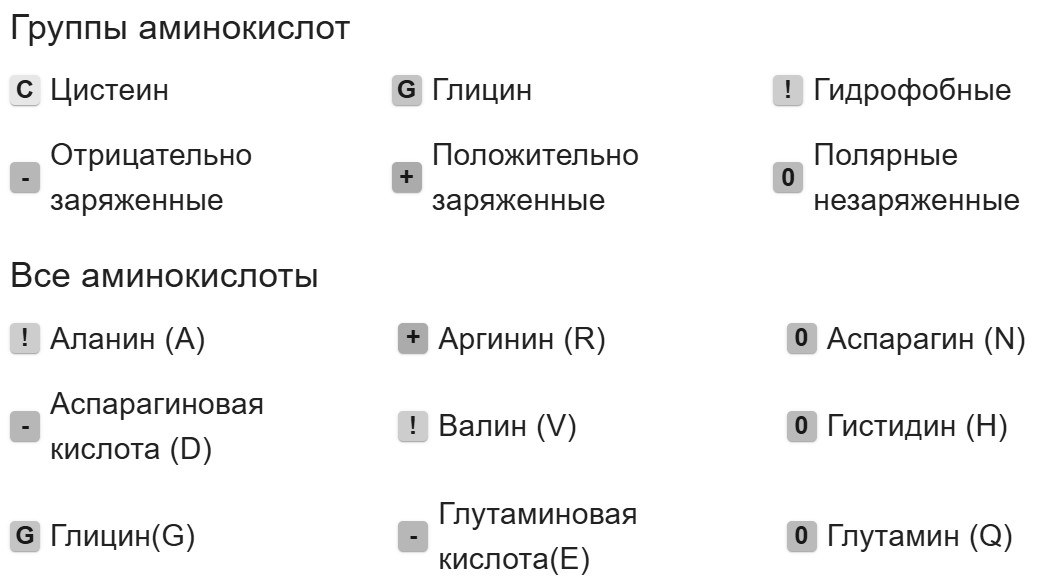
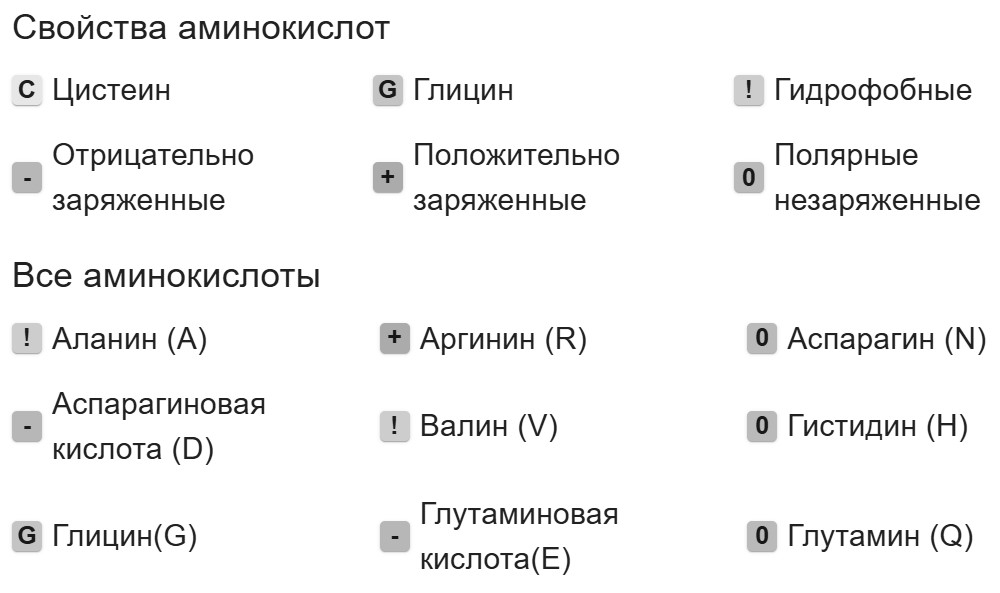
corrected text

diff --git a/src/components/Legend/LegendPopover/LegendPopover.tsx b/src/components/Legend/LegendPopover/LegendPopover.tsx
@@ -51,7 +51,7 @@ export const LegendPopover: React.FC<LegendPopoverProps> = ({
             id="amino-groups-title"
             gutterBottom
           >
-            Группы аминокислот
+            Свойства аминокислот
           </Typography>
 
           <IconButton onClick={onClose} size="small" aria-label="Закрыть">

diff --git a/README.md b/README.md
@@ -1,17 +1,17 @@
 # Инструмент для визуализации выравнивания аминокислотных последовательностей
 
-* [Демонстрация](#демонстрация)
-* [О проекте](#о-проекте)
-* [Требования к проекту](#требования-к-проекту)
-* [Реализация](#реализация)
-  + [Позиционирование последовательностей](#позиционирование-последовательностей)
-  + [Окрашивание фона](#окрашивание-фона)
-  + [Оптимизация](#оптимизация)
-  + [Доступность (accessibility)](#доступность-accessibility)
-  + [Проблемы подхода](#проблемы-подхода)
-* [Технологии](#технологии)
-  + [Стек](#стек)
-  + [Запуск проекта](#запуск-проекта)
+- [Демонстрация](#демонстрация)
+- [О проекте](#о-проекте)
+- [Требования к проекту](#требования-к-проекту)
+- [Реализация](#реализация)
+  - [Позиционирование последовательностей](#позиционирование-последовательностей)
+  - [Окрашивание фона](#окрашивание-фона)
+  - [Оптимизация](#оптимизация)
+  - [Доступность (accessibility)](#доступность-accessibility)
+  - [Проблемы подхода](#проблемы-подхода)
+- [Технологии](#технологии)
+  - [Стек](#стек)
+  - [Запуск проекта](#запуск-проекта)
 
 ## Демонстрация
 
@@ -46,6 +46,8 @@
 
 Позиция последовательности рассчитывается динамически, в зависимости от выбранного масштаба и количества последовательностей.
 
+Данный подход позволяет избежать создания большого количества DOM элементов, добиться корректной работы поиска по части последовательности и реализовать возможность копирования части последовательности при выделении текста мышью.
+
 ![Позиционирование](./readme-img/aminopostition.jpg)
 
 ### Окрашивание фона
@@ -75,17 +77,17 @@ background: linear-gradient(90deg,
 - изменение ширины экрана
 - изменение масштаба
 
-Рассчитанный градиент сохраняется в виде массива строк (useRef) и в дальнейшем, при переключении фона, присваивается как CSS-свойство элементам последовательностей.
+Рассчитанные градиенты сохраняются в виде массива строк (с использованием useRef), а затем, при переключении фона, присваиваются элементам последовательностей как CSS-свойство.
 
-Данный способ был проверен для последовательностей длиной более _100 000 символов_. При замедлении CPU (6x slowdown) переключение фона занимает не более _2-х секунд_.
+Данный подход был проверен для последовательностей длиной более _100 000 символов_. При замедлении CPU (6x slowdown) переключение фона занимает не более _2-х секунд_.
 
 ### Доступность (accessibility)
 
 Все интерактивные элементы поддерживают работу с клавиатурой. Для элементов с неочевидным назначением добавлено описание (aria-label).
 
-Для пользователей, у которых есть проблемы с различением цветов, добавлены условные символы, позволяющие связать аминокислоту со свойством, которым она обладает.:
+Для пользователей, у которых есть проблемы с различением цветов, добавлены условные символы, позволяющие связать аминокислоту со свойством, которым она обладает:
 
-![Градиент](./readme-img/achromatopsia.jpg)
+![Ахроматопсия](./readme-img/achromatopsia.jpg "Как выглядят обозначения для пользователя с ахроматопсией")
 
 Также добавлена таблица с текстовым описанием результата, которая отображается при нажатии на кнопку _Результат_:
 
